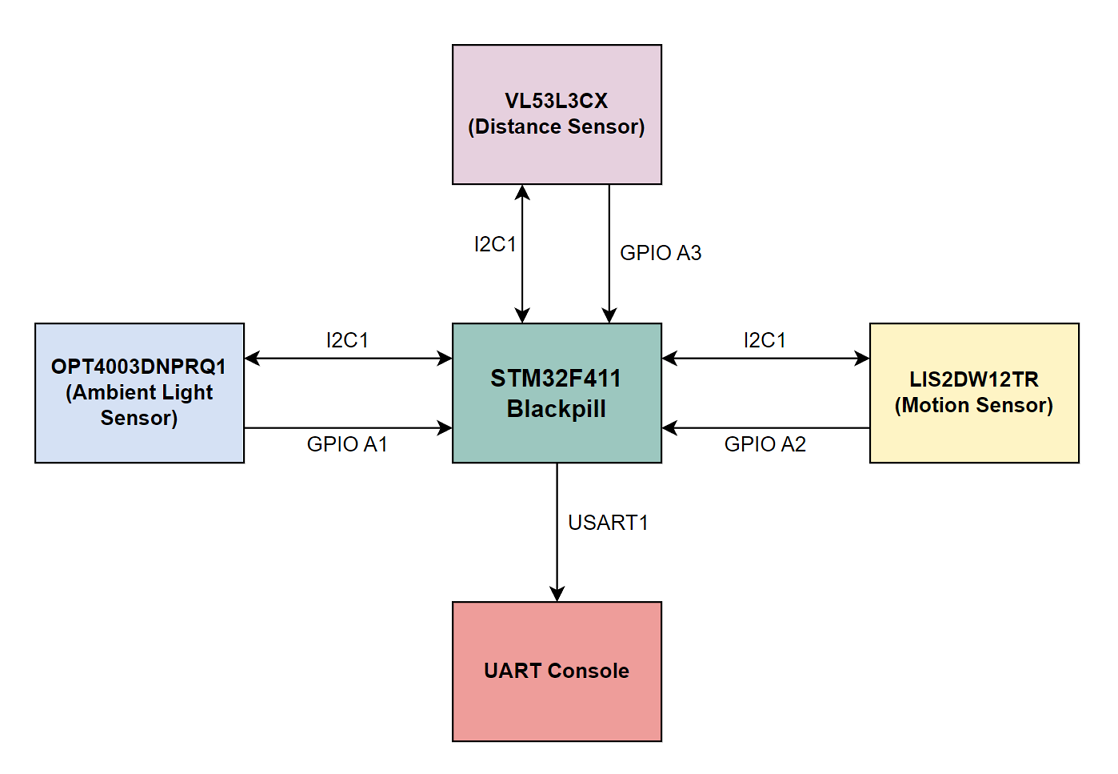
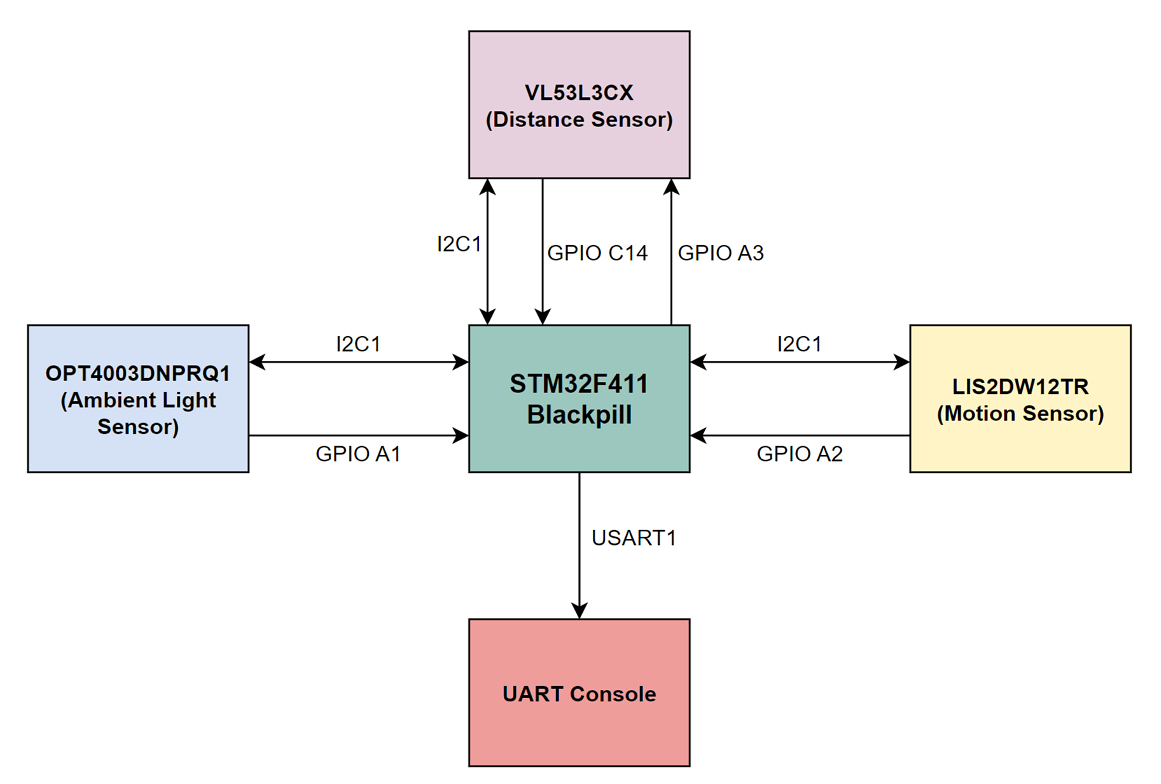
feat: add skeleton code

Changed region(s): [[0.0, 0.3721, 0.9732, 0.9922], [0.3953, 0.031, 0.6082, 0.2791], [0.3649, 0.2791, 0.6691, 0.3411]]

diff --git a/src/sensors/distance_sensor/vl53l3cx.c b/src/sensors/distance_sensor/vl53l3cx.c
@@ -1,12 +1,123 @@
 #include <zephyr/kernel.h>
+#include <zephyr/device.h>
+#include <zephyr/drivers/gpio.h>
+#include <zephyr/drivers/i2c.h>
 
 #include "distance_sensor.h"
 #include "vl53l3cx.h"
 
+static vl53l3cx_data_t *vl53l3cx_data;
+
+// for debugging purposes
+static volatile uint32_t distance_int_count           = 0;
+static volatile uint32_t distance_int_processed_count = 0;
+static volatile uint32_t distance_int_missed_count    = 0;
+
+static vl53l3cx_data_t *create_vl53l3cx_data(void)
+{
+    static vl53l3cx_data_t data = {
+        .i2c_dev             = DEVICE_DT_GET(DISTANCE_I2C_DEV_NODE),
+        .distance_sensor_int = GPIO_DT_SPEC_GET(DISTANCE_SENSOR_INT_NODE, gpios),
+        .distance_xshut      = GPIO_DT_SPEC_GET(DISTANCE_SENSOR_XSHUT_NODE, gpios),
+        .sensor_ready        = false,
+        .sensor_active       = false,
+        .distance_mm         = 0
+    };
+
+    return &data;
+}
+
+static void distance_int_callback(const struct device *dev, struct gpio_callback *cb, uint32_t pins)
+{
+    distance_int_count++;
+
+    if (k_sem_count_get(&vl53l3cx_data->distance_int_sem) > 0)
+    {
+        distance_int_missed_count++;
+        printf("Distance interrupt count #%d triggered, prev data skipped\n", distance_int_count);
+    }
+    else
+    {
+        printf("Distance interrupt count #%d triggered\n", distance_int_count);
+        k_sem_give(&vl53l3cx_data->distance_int_sem);
+    }
+}
+
+static int interrupt_setup(void)
+{
+    int ret = 0;
+
+    if (!device_is_ready(vl53l3cx_data->distance_sensor_int.port))
+    {
+        printf("Distance sensor interrupt is not ready\n");
+        return -1;
+    }
+
+    ret = gpio_pin_configure_dt(&vl53l3cx_data->distance_sensor_int, GPIO_INPUT | GPIO_PULL_UP);
+    if (ret != 0)
+    {
+        printf("Failed to configure distance sensor pin\n");
+        return -1;
+    }
+
+    ret = gpio_pin_interrupt_configure_dt(&vl53l3cx_data->distance_sensor_int, GPIO_INT_EDGE_TO_ACTIVE);
+
+    if (ret != 0)
+    {
+        printf("Failed to configure distance sensor interrupt\n");
+        return -1;
+    }
+
+    gpio_init_callback(&vl53l3cx_data->int_cb, distance_int_callback, BIT(vl53l3cx_data->distance_sensor_int.pin));
+    gpio_add_callback(vl53l3cx_data->distance_sensor_int.port, &vl53l3cx_data->int_cb);
+
+    printf("Distance interrupt is ready\n");
+
+    return 0;
+}
+
+static void initial_register_setup(void)
+{
+    printf("initial_register_setup\n");
+}
+
 static void vl53l3cx_init(void)
 {
+    int ret_value = 0;
+
     printf("vl53l3cx_init\n");
+
+    vl53l3cx_data = create_vl53l3cx_data();  
+
+    k_sem_init(&vl53l3cx_data->distance_int_sem, 0, 1);
+
+    if (!gpio_is_ready_dt(&vl53l3cx_data->distance_xshut))
+    {
+        printf("Distance sensor XSHUT is not ready\n");
+        return;
+    }
+
+    // Sets the initial state to LOW (0)
+    // Enables the internal pull-up resistor of the mcu
+    ret_value = gpio_pin_configure_dt(&vl53l3cx_data->distance_xshut, GPIO_OUTPUT_INACTIVE | GPIO_PULL_UP);
+
+    if (ret_value < 0)
+    {
+        printf("Failed to configure distance sensor XSHUT\n");
+        return;
+    }
+
+    if (interrupt_setup() != 0)
+    {
+        printf("Distance interrupt is not ready\n");
+
+        return;
+    }
+
+    initial_register_setup();
 }
+
+
 
 static bool vl53l3cx_is_active(void)
 {
@@ -16,7 +127,22 @@ static bool vl53l3cx_is_active(void)
 
 static void vl53l3cx_activate(void)
 {
+    int ret = 0;
+
     printf("vl53l3cx_activate\n");
+
+    // Drive XSHUT high to enable the sensor (active low)
+    ret = gpio_pin_set_dt(&vl53l3cx_data->distance_xshut, 1);
+
+    if (ret < 0)
+    {
+        printf("Failed to enable sensor via XSHUT\n");
+    }
+    else
+    {
+        // delay for tBOOT (FWBOOT)
+        k_msleep(VL53L3CX_BOOT_TIME_MS);
+    }
 }
 
 static bool vl53l3cx_is_ready(void)
@@ -25,15 +151,24 @@ static bool vl53l3cx_is_ready(void)
     return true;
 }
 
-static uint32_t vl53l3cx_get(void)
+static uint32_t vl53l3cx_get_distance_mm(void)
 {
     printf("vl53l3cx_get\n");
-    return 0;
+    return vl53l3cx_data->distance_mm;
 }
 
 static void vl53l3cx_deactivate(void)
 {
+    int ret = 0;
     printf("vl53l3cx_deactivate\n");
+    
+    // Drive XSHUT low to disable the sensor (active low)
+    ret = gpio_pin_set_dt(&vl53l3cx_data->distance_xshut, 0);
+    
+    if (ret < 0)
+    {
+        printf("Failed to disable sensor via XSHUT\n");
+    }
 }
 
 static const distance_sensor_api_t vl53l3cx_api =
@@ -42,7 +177,7 @@ static const distance_sensor_api_t vl53l3cx_api =
     .is_active   = vl53l3cx_is_active,
     .activate    = vl53l3cx_activate,
     .is_ready    = vl53l3cx_is_ready,
-    .get         = vl53l3cx_get,
+    .get         = vl53l3cx_get_distance_mm,
     .deactivate  = vl53l3cx_deactivate,
 };
 

diff --git a/src/sensors/distance_sensor/vl53l3cx.h b/src/sensors/distance_sensor/vl53l3cx.h
@@ -1,5 +1,45 @@
 #ifndef VL53L3CX_H
 #define VL53L3CX_H
 
+#include <stdint.h>
+#include <stdbool.h>
+#include <zephyr/drivers/gpio.h>
+#include <zephyr/device.h>
+
+#define DISTANCE_INT_NODE          DT_ALIAS(extint2)
+#define DISTANCE_XSHUT_NODE        DT_ALIAS(distancexshut)
+#define DISTANCE_SENSOR_INT_NODE   DT_CHILD(DISTANCE_INT_NODE, distance_sensor_int)
+#define DISTANCE_SENSOR_XSHUT_NODE DT_CHILD(DISTANCE_XSHUT_NODE, distance_sensor_xshut)
+#define DISTANCE_I2C_DEV_NODE      DT_ALIAS(distancei2c)
+
+#if !DT_NODE_HAS_STATUS(DISTANCE_INT_NODE, okay)
+#error "Unsupported board: distance-int devicetree alias is not defined"
+#endif
+
+// VL53L3CX I²C device address: 0x52
+#define VL53L3CX_I2C_ADDR          0x52U
+#define VL53L3CX_REG_WHO_AM_I_VAL  0xEAU
+
+// Register Addresses
+#define VL53L3CX_REG_WHO_AM_I      0x010FU
+#define VL53L3CX_REG_MODULE_TYPE   0x0110U
+#define VL53L3CX_REG_SYSTEM_START  0x0087U
+#define VL53L3CX_REG_RESULT_RANGE  0x0096U
+#define VL53L3CX_REG_INT_CONFIG    0x0046U
+
+// NOTE: tBOOT (FWBOOT) is 1.2 ms max
+#define VL53L3CX_BOOT_TIME_MS      3U
+
+
+typedef struct {
+    const struct device       *i2c_dev;
+    const struct gpio_dt_spec distance_sensor_int;
+    const struct gpio_dt_spec distance_xshut;
+    struct gpio_callback      int_cb;
+    bool                      sensor_ready;
+    bool                      sensor_active;
+    uint16_t                  distance_mm;
+    struct k_sem              distance_int_sem;
+} vl53l3cx_data_t;
 
 #endif // VL53L3CX_H

diff --git a/src/lib/door_state_manager/door_state_manager.c b/src/lib/door_state_manager/door_state_manager.c
@@ -156,7 +156,7 @@ static void check_sensors(void)
             {
                 printf("Distance sensor ready\n");
     
-                distance = distance_sensor_get();
+                distance = distance_sensor_get_distance_mm();
 
                 if (distance > DISTANCE_THRESHOLD_CM)
                 {

diff --git a/src/sensors/ambient_light_sensor/opt4003dnprq1.h b/src/sensors/ambient_light_sensor/opt4003dnprq1.h
@@ -1,7 +1,7 @@
 #ifndef OPT4003DNPRQ1_H
 #define OPT4003DNPRQ1OPT4003DNPRQ1_H
 
-#define LIGHT_INT_NODE DT_ALIAS(extint1)
+#define LIGHT_INT_NODE        DT_ALIAS(extint1)
 #define LIGHT_SENSOR_INT_NODE DT_CHILD(LIGHT_INT_NODE, light_sensor_int)
 
 #if !DT_NODE_HAS_STATUS(LIGHT_INT_NODE, okay)

diff --git a/include/sensors/distance_sensor.h b/include/sensors/distance_sensor.h
@@ -41,7 +41,7 @@ static inline bool distance_sensor_is_ready(void)
     return distance_sensor_get_api()->is_ready();
 }
 
-static inline uint32_t distance_sensor_get(void)
+static inline uint32_t distance_sensor_get_distance_mm(void)
 {
     return distance_sensor_get_api()->get();
 }

diff --git a/README.md b/README.md
@@ -51,6 +51,21 @@ This is the layout of the physical part that make the system
   <img src="images/hw-high-level-design.png" alt="HW High-level Design">
 </p>
 
+### Connection Table
+
+| Sensor | Pin | Function | Connected to STM32F411CE |
+|--------|-----|----------|--------------|
+| VL53L3CX | XSHUT | Digital input (Active low) | GPIO C14 |
+| VL53L3CX | GPIO1 | Digital output (Interrupt, Open drain) | GPIO A3 |
+| VL53L3CX | SDA | I2C Data | I2C1 |
+| VL53L3CX | SCL | I2C Clock | I2C1 |
+| LIS2DW12TR | SDA | I2C Data | I2C1 |
+| LIS2DW12TR | SCL | I2C Clock | I2C1 |
+| LIS2DW12TR | INT1 | Interrupt | GPIO A2 |
+| OPT4003DNPRQ1 | SDA | I2C Data | I2C1 |
+| OPT4003DNPRQ1 | SCL | I2C Clock | I2C1 |
+| OPT4003DNPRQ1 | INT | Interrupt | GPIO A1 |
+
 ## Firmware Architecture
 
 IMAGE
